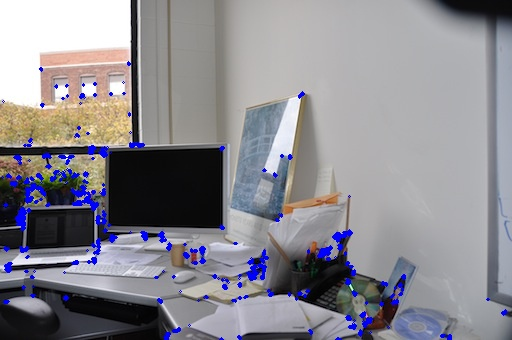
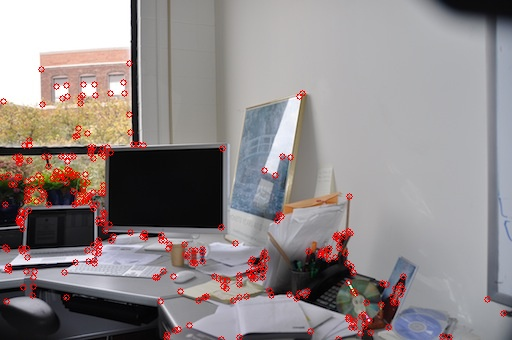
added non max suppression and generated new results

diff --git a/pano.py b/pano.py
@@ -11,10 +11,8 @@ class Panorama:
     def __init__(self, path):
         if path == "DanaHallWay1":
             self.harris_thresh = 0.0025
-            self.ncc_thresh = 0.9995
         elif path == "DanaOffice":
             self.harris_thresh = 0.01
-            self.ncc_thresh = 0.9995  # 0.95
         return
 
     def load_images(self, path: str) -> np.ndarray:
@@ -35,6 +33,42 @@ class Panorama:
         return np.array([cv2.imread(f) for f in files]), np.array(
             [cv2.imread(f, 0) for f in files]
         )
+
+    def non_maximum_suppresion(self, image: np.ndarray, window_size: int = 5):
+        """Apply non-maximum suppression to a given image
+
+        Args:
+            image (np.ndarray): Image to perform non-max suppression on the.
+            window_size (int, optional): The window size around each pixel.
+        Returns:
+            suppressed (np.ndarray): Resulting image after non-maximum suppression.
+        """    
+        suppressed = image.copy()
+        global_min = image.min()
+        p = window_size // 2
+
+        width, height = suppressed.shape
+
+        
+        for i in range(width):
+            x1 = max(0, i - p)
+            x2 = min(width, i + p)
+            for j in range(height):
+                # Bounds for window around pixel at (i, j)
+                y1 = max(0, j - p)
+                y2 = min(height, j + p)
+                
+                # Set pixel value to the global min to exclude it from max
+                value = suppressed[i, j]
+                suppressed[i, j] = global_min
+
+                # If pixel has the maximum value in the window then use its value
+                local_max = suppressed[x1:x2, y1:y2].max()
+                if value > local_max:
+                    suppressed[i, j] = value
+                    
+                # Else keep it is global minimum
+        return suppressed
 
     def harris_corner_detector(
         self, image: np.ndarray, k: float = 0.04, window_size: int = 3
@@ -74,11 +108,11 @@ class Panorama:
         # Normalize
         R /= R.max()
 
+        # Non-max suppression
+        R = self.non_maximum_suppresion(R)
+
         # Thresholding
         R[R > self.harris_thresh] = 255
-
-        # Non Max Suppression
-        R[R <= self.harris_thresh] = 0
 
         corners = np.where(R == 255)
         corners = list(zip(corners[0], corners[1]))
@@ -146,10 +180,6 @@ class Panorama:
                     max_ncc = ncc
                     best_corner = corner2
 
-                # Threshold
-                if max_ncc < self.ncc_thresh:
-                    continue
-
                 # Store correspondence with highest NCC
                 correspondences[corner1] = best_corner
         return correspondences
@@ -176,14 +206,14 @@ class Panorama:
         return h_mat
 
     def ransac(
-        self, correspondences: dict, threshold: int = 5, k: int = 100, N: int = 4
+        self, correspondences: dict, threshold: int = 5, k: int = 72, N: int = 4
     ) -> np.ndarray:
         """Performs RANSAC to find the best homography matrix, given the correspondences. This is done using the largest set of inliers.
 
         Args:
             correspondences (dict): Correspondences between the two images in the form {corner1 (x, y): corner2 (x, y)}
             threshold (int, optional): The distance threshold. Defaults to 5.
-            k (int, optional): No of iterations. Defaults to 100.
+            k (int, optional): No of iterations. Defaults to 72.
             N (int, optional): Sample size. Defaults to 4.
 
         Returns:
@@ -258,7 +288,7 @@ class Panorama:
         _, final = stitcher.stitch((copy1, copy2))
         return final
 
-    def drawLines(
+    def draw_lines(
         self, image1: np.ndarray, image2: np.ndarray, points: dict, col1: tuple = None
     ) -> None:
         """Draws lines between the points in the two images.
@@ -285,7 +315,7 @@ class Panorama:
 
         return vis
 
-    def drawCorners(self, image: np.ndarray, corners: list) -> None:
+    def draw_corners(self, image: np.ndarray, corners: list) -> None:
         """Draw corners in the image.
 
         Args:
@@ -297,7 +327,7 @@ class Panorama:
         vis = image.copy()
         # Draw lines between correlated corners
         for corner in corners:
-            cv2.circle(vis, (corner[1], corner[0]), 1, (255, 0, 0), 1)
+            cv2.circle(vis, (corner[1], corner[0]), 3, (0, 0, 255), 1)
         return vis
 
     def show_image(self, images: list, titles: list) -> None:
@@ -324,8 +354,8 @@ class Panorama:
 
 
 def main():
-    # DIR = "DanaHallWay1"
-    DIR = "DanaOffice"
+    DIR = "DanaHallWay1"
+    # DIR = "DanaOffice"
 
     pano = Panorama(DIR)
 
@@ -354,12 +384,12 @@ def main():
     output = pano.create_panorama(image1, image2, H)
 
     # Display results
-    corners1_vis = pano.drawCorners(image1, corners1)
-    corners2_vis = pano.drawCorners(image2, corners2)
-    correspondences_vis = pano.drawLines(image1, image2, correspondences)
-    inliers_vis = pano.drawLines(image1, image2, inliers)
-    outliers_vis = pano.drawLines(image1, image2, outliers)
-
+    corners1_vis = pano.draw_corners(image1, corners1)
+    corners2_vis = pano.draw_corners(image2, corners2)
+    correspondences_vis = pano.draw_lines(image1, image2, correspondences)
+    inliers_vis = pano.draw_lines(image1, image2, inliers)
+    outliers_vis = pano.draw_lines(image1, image2, outliers)
+    print(H)
     pano.show_image(
         [
             image1,
